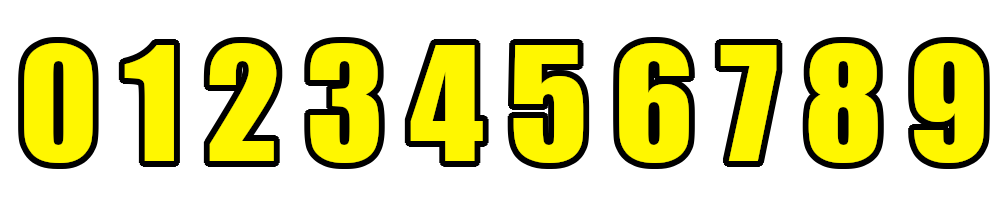
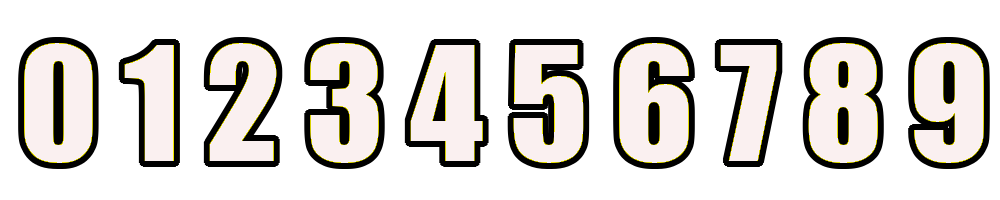
数値が出たブランチ変え忘れた

diff --git a/GameScene.cpp b/GameScene.cpp
@@ -1,7 +1,7 @@
 #include "GameScene.h"
-#include <cstdlib>
-#include <ctime>
 #include <random>
+#include <ctime>
+#include <cstdlib>
 
 using namespace KamataEngine;
 using namespace MathUtility;
@@ -40,6 +40,12 @@ void Game::Initialize() {
 	graphBar_ = new GraphBar();
 	graphBar_->Initialize(textureHandleGraph_);
 
+#pragma endregion
+
+#pragma region スコア表示
+	textureHandleNumber_ = TextureManager::Load("UI/number.png");
+	drawNumber_ = new DrawNumber();
+	drawNumber_->Initialize(textureHandleNumber_);
 #pragma endregion
 
 #pragma region UI
@@ -146,6 +152,9 @@ void Game::Update() {
 		if (hp_ < 0) {
 			hp_ = 200u;
 		}
+
+		gameScore_++;
+		drawNumber_->Update(gameScore_);
 
 #pragma region エフェクト
 
@@ -287,39 +296,20 @@ void Game::Draw() {
 	// DirectXCommonインスタンスの取得
 	DirectXCommon* dxCommon = DirectXCommon::GetInstance();
 
+#pragma region スプライト(背景)
+
 	Sprite::PreDraw(dxCommon->GetCommandList());
 
 	stage_->Draw();
-
-#pragma region UI
-	if (phase_ == Phase::kPlay || phase_ == Phase::kFadeIn || phase_ == Phase::kPose || phase_ == Phase::kDeath || phase_ == Phase::kEnemyDeath) {
-		ESC_Sprite_->Draw();
-
-		if (Input::GetInstance()->PushKey(DIK_ESCAPE)) {
-			ESC_Sprite_2->Draw();
-		}
-	}
-
-	// ポーズ画面
-	if (phase_ == Phase::kPose) {
-		PoseUI_Sprite_->Draw();
-		PoseUI2_Sprite_->Draw();
-
-		if (Input::GetInstance()->PushKey(DIK_ESCAPE)) {
-			PoseUI_Sprite_2->Draw();
-		}
-
-		if (Input::GetInstance()->PushKey(DIK_T)) {
-			PoseUI2_Sprite_2->Draw();
-		}
-	}
-
-#pragma endregion
 
 	Sprite::PostDraw();
 
 	// 深度バッファクリア
 	dxCommon->ClearDepthBuffer();
+
+#pragma endregion
+
+#pragma region モデル
 
 	Model::PreDraw();
 
@@ -360,6 +350,9 @@ void Game::Draw() {
 
 	Model::PostDraw();
 
+#pragma endregion
+
+#pragma region モデル2
 	Model2::PreDraw(commandList);
 
 	// model2_->Draw(worldTransform_, camera_, textureHandle_Circle_);
@@ -371,15 +364,45 @@ void Game::Draw() {
 	// model2_ring_->Draw(worldTransform_, camera_, textureHandle_);
 
 	Model2::PostDraw();
+#pragma endregion
+
+#pragma region スプライト(UI)
 
 	// スプライト描画前処理
 	Sprite::PreDraw(dxCommon->GetCommandList());
 
 	graphBar_->Draw();
-	// drawNumber_->Draw();
+	drawNumber_->Draw();
+
+#pragma region UI
+	if (phase_ == Phase::kPlay || phase_ == Phase::kFadeIn || phase_ == Phase::kPose || phase_ == Phase::kDeath || phase_ == Phase::kEnemyDeath) {
+		ESC_Sprite_->Draw();
+
+		if (Input::GetInstance()->PushKey(DIK_ESCAPE)) {
+			ESC_Sprite_2->Draw();
+		}
+	}
+
+	// ポーズ画面
+	if (phase_ == Phase::kPose) {
+		PoseUI_Sprite_->Draw();
+		PoseUI2_Sprite_->Draw();
+
+		if (Input::GetInstance()->PushKey(DIK_ESCAPE)) {
+			PoseUI_Sprite_2->Draw();
+		}
+
+		if (Input::GetInstance()->PushKey(DIK_T)) {
+			PoseUI2_Sprite_2->Draw();
+		}
+	}
+
+#pragma endregion
 
 	// スプライト描画後処理
 	Sprite::PostDraw();
+
+#pragma endregion
 }
 
 // エフェクト発生
@@ -455,6 +478,8 @@ Game::~Game() {
 
 	delete player_;
 	delete graphBar_;
+
+	delete drawNumber_;
 
 	Model2::StaticFinalize();
 }

diff --git a/DrawNumber.cpp b/DrawNumber.cpp
@@ -1,0 +1,49 @@
+#include "DrawNumber.h"
+using namespace KamataEngine;
+
+// デストラクタ
+DrawNumber::~DrawNumber() {
+	for (int i = 0; i < 5; i++) {
+		delete sprite_[i];
+	}
+}
+
+// 初期化
+void DrawNumber::Initialize(uint32_t textureHandle) {
+	textureHandle_ = textureHandle;
+	// スプライト
+	for (int i = 0; i < 5; i++) {
+		sprite_[i] = Sprite::Create(textureHandle_, {500.0f + size.x * i, 5});
+	}
+}
+
+// 更新
+void DrawNumber::Update(uint32_t number) {
+	for (int i = 0; i < 5; i++) {
+		sprite_[i]->SetSize(size);
+		sprite_[i]->SetTextureRect({0, 0}, size);
+	}
+
+	(void)number;
+
+	// 最初に割る数値
+	int32_t digit = 10000;
+	// 5桁分ループ
+	for (int i = 0; i < 5; i++) {
+		// 今の桁の数値を取り出す
+		int nowNumber = number / digit;
+		// 今の桁の数値の部分を切り出すようにする
+		sprite_[i]->SetTextureRect({size.x * nowNumber, 0}, {size.x, size.y});
+		// 残りの桁の数値にする
+		number %= digit;
+		// 桁をずらす
+		digit /= 10;
+	}
+}
+
+// 描画
+void DrawNumber::Draw() {
+	for (int i = 0; i < 5; i++) {
+		sprite_[i]->Draw();
+	}
+}

diff --git a/DrawNumber.h b/DrawNumber.h
@@ -1,0 +1,25 @@
+#pragma once
+#include "KamataEngine.h"
+
+class DrawNumber {
+public:
+	// デストラクタ
+	~DrawNumber();
+
+	// 初期化
+	void Initialize(uint32_t textureHandle);
+
+	// 更新
+	void Update(uint32_t number);
+
+	// 描画
+	void Draw();
+
+private:
+	// テクスチャー
+	uint32_t textureHandle_;
+	// スプライト
+	KamataEngine::Sprite* sprite_[5] = {};
+	// サイズ
+	KamataEngine::Vector2 size = {32.0f, 64.0f};
+};

diff --git a/GameScene.h b/GameScene.h
@@ -14,6 +14,8 @@
 #include "GraphBar.h"
 #include "Player.h"
 
+#include "DrawNumber.h"
+
 class Game {
 public:
 	void Initialize();
@@ -162,4 +164,9 @@ private:
 	int hp_ = 200;
 
 #pragma endregion
+
+	uint32_t textureHandleNumber_ = 0;
+	DrawNumber* drawNumber_ = nullptr;
+	// score
+	int gameScore_ = 0;
 };
